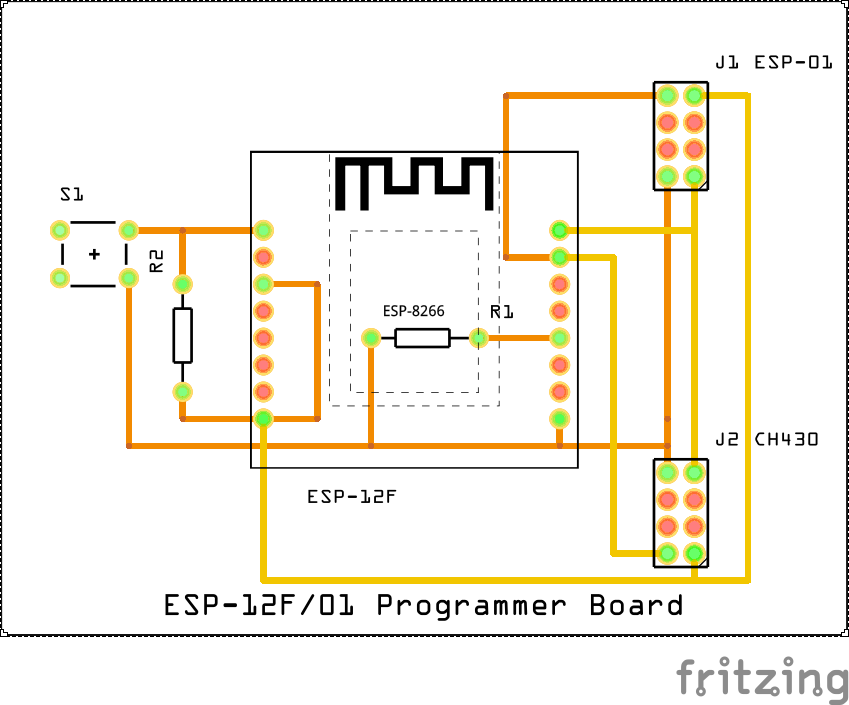
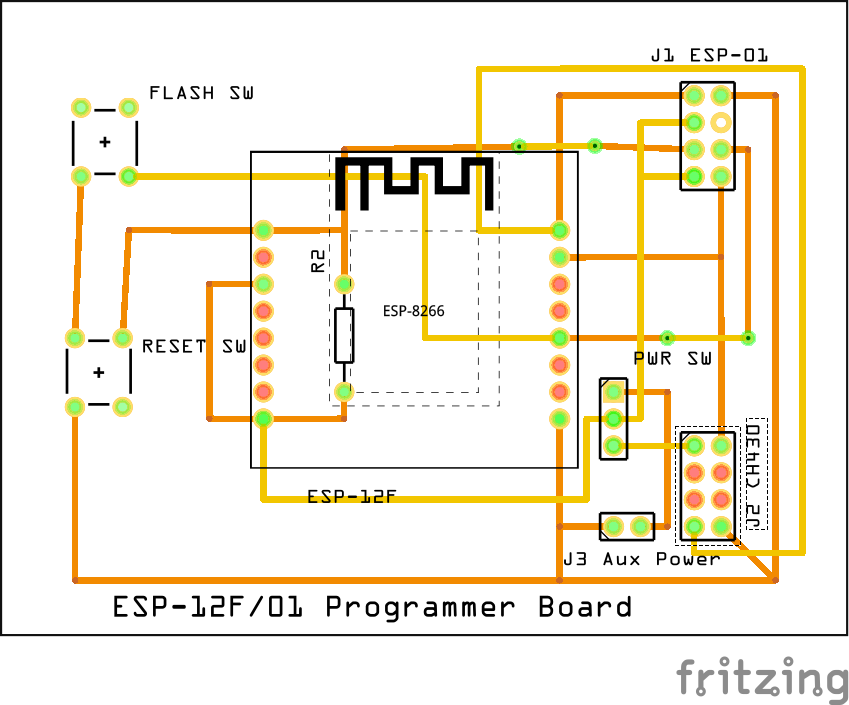
Update documentation

diff --git a/README.md b/README.md
@@ -1,9 +1,21 @@
 # ESP8266 Programmer
 
 Simple device to program bare ESP8266 (i.e. ESP-12F) or ESP-01 modules.
-Current version draws power from USB port.
+
+The programmer has following capabilities:
+* Can be powered either from external source (J3) or from USB programmer (J2) - selectable by PWR SW.
+* Handles ESP-01 modules (2x4 DIL) or 2x8 modules (ESP-07, ESP-12 - via appropriate adapter) - only one kind of modules at a time.
+* Reset switch (RESET SW).
+* Flash-Mode switch (FLASH SW)  - allows for flashing or regular usage.
+
+It requires typical ESP-01 programmer to be plugged into J2.
+
+## Schematics
 
 ![schematics](img/ESP8266-programmer_schem.png "Schematics")
 
-![pcb](img/ESP8266-programmer_pcb.png "PCB View"
-)
+## PCB
+
+The programmer fits into typical 8x6cm double sided universal board.
+
+![pcb](img/ESP8266-programmer_pcb.png "PCB View")
